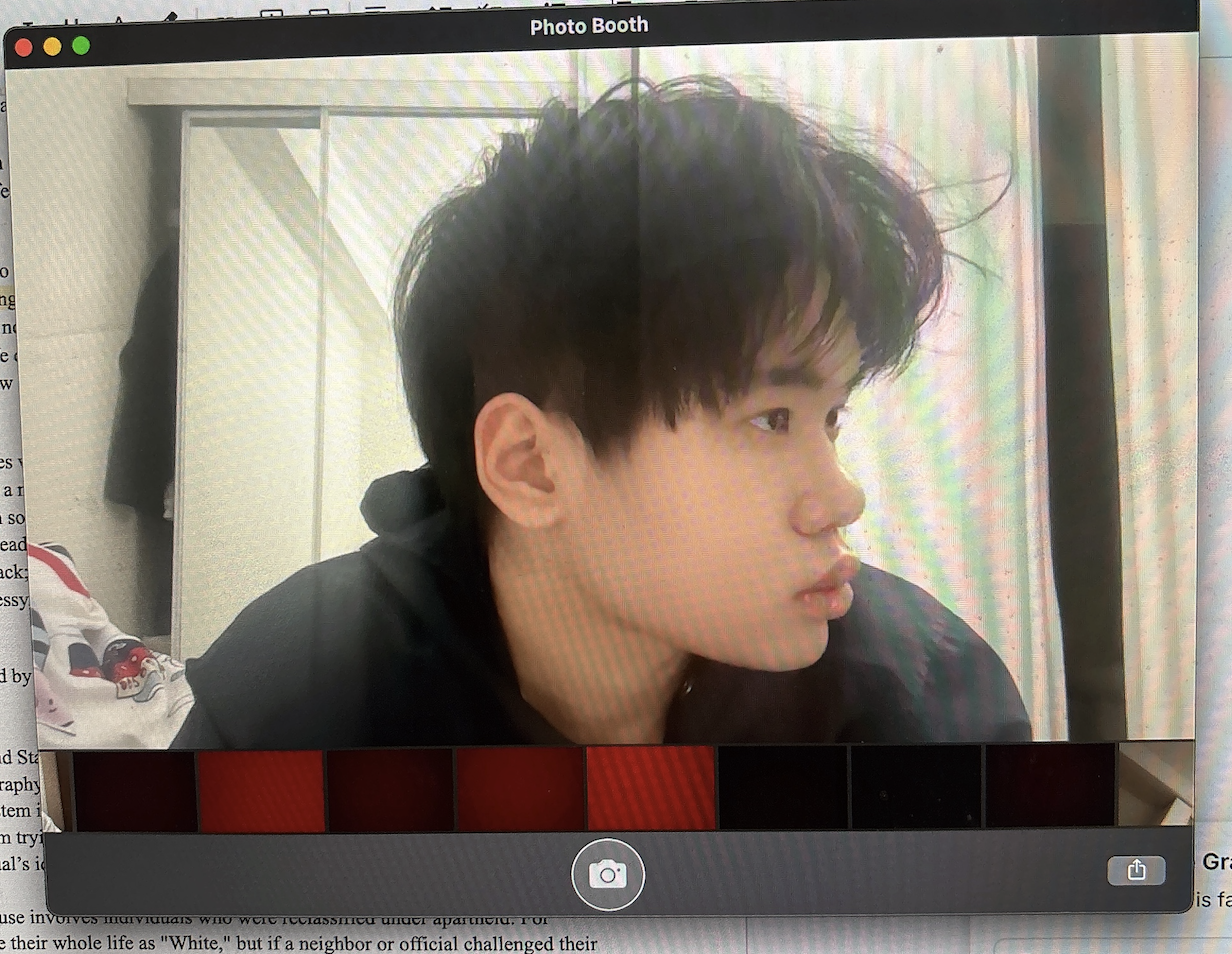
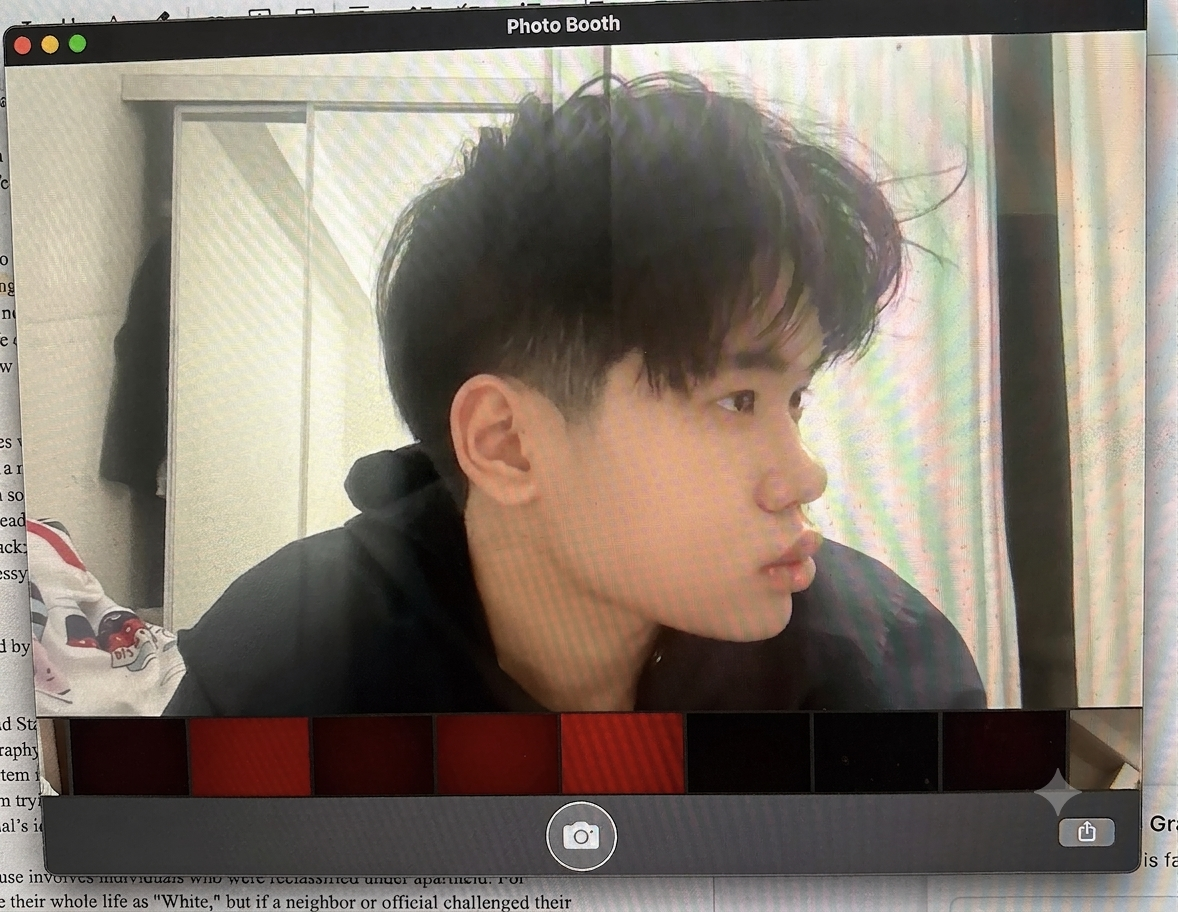
change photo

diff --git a/src/components/About.jsx b/src/components/About.jsx
@@ -572,7 +572,7 @@ const About = () => {
                   objectFit: 'cover', 
                   objectPosition: 'center', 
                   display: 'block',
-                  filter: 'contrast(1.35) grayscale(50%) brightness(0.84)'
+                  filter: 'contrast(1.35) grayscale(40%) brightness(0.84)'
                 }}
               />
             </motion.div>
